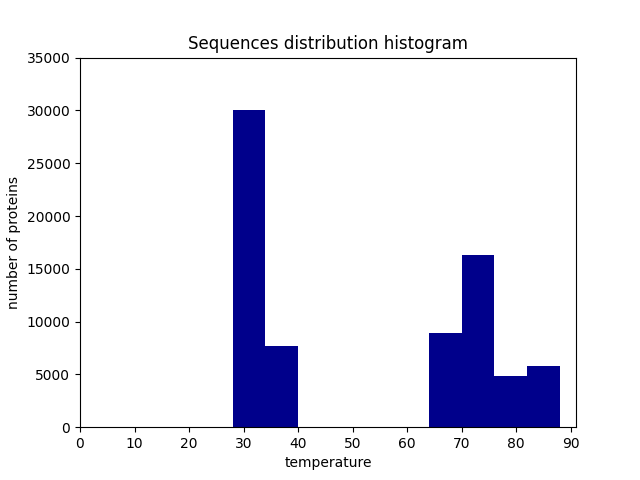
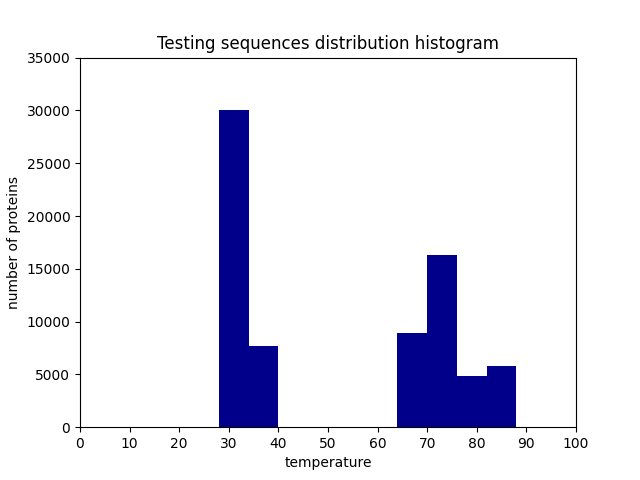
Updated histograms and edited the x axis scale (to include 100).

diff --git a/scripts/003/003_plot_histogram.py b/scripts/003/003_plot_histogram.py
@@ -40,13 +40,13 @@ file_handle.close()
 # Plot histogram
 
 n, bins, patches = plt.hist(x=temperatures, bins=10, color='#00008b')
-plt.xticks(range(0, 100, 10))
+plt.xticks(range(0, 110, 10))
 plt.yticks(range(0, 40000, 5000))
 plt.xlabel('temperature')
 plt.ylabel('number of proteins')
 
 if(len(sys.argv) >= 5 and sys.argv[4]):
-	plt.title(DATASET_NAME+' sequences distribution histogram')
+	plt.title(sys.argv[4]+' sequences distribution histogram')
 else:
 	plt.title('Sequences distribution histogram')
 
